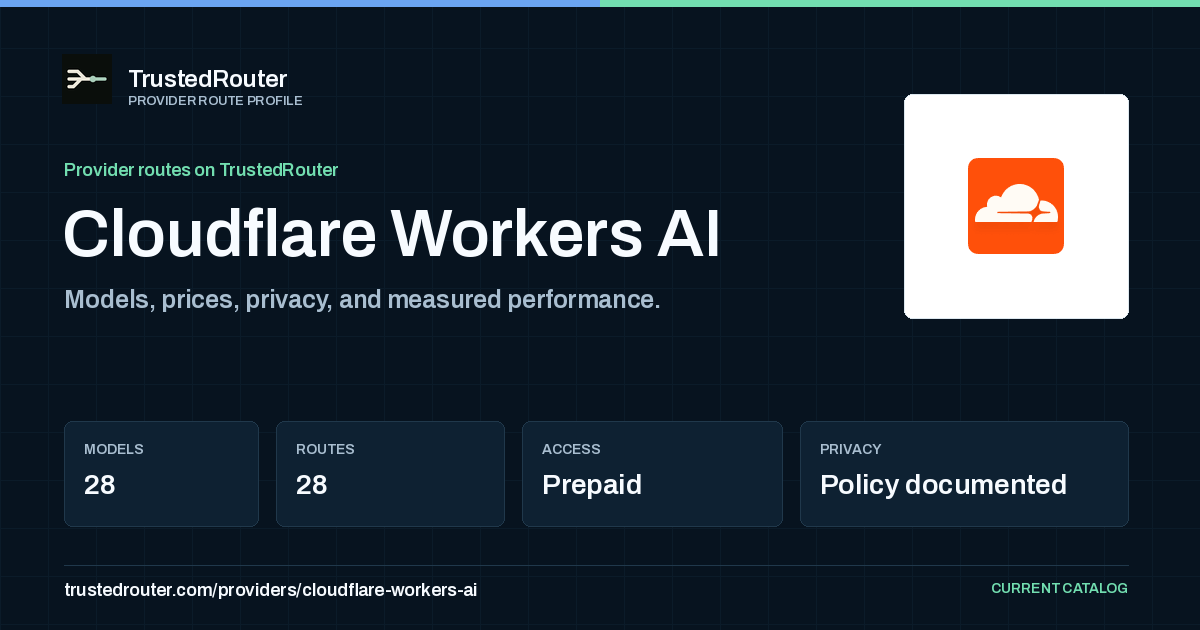
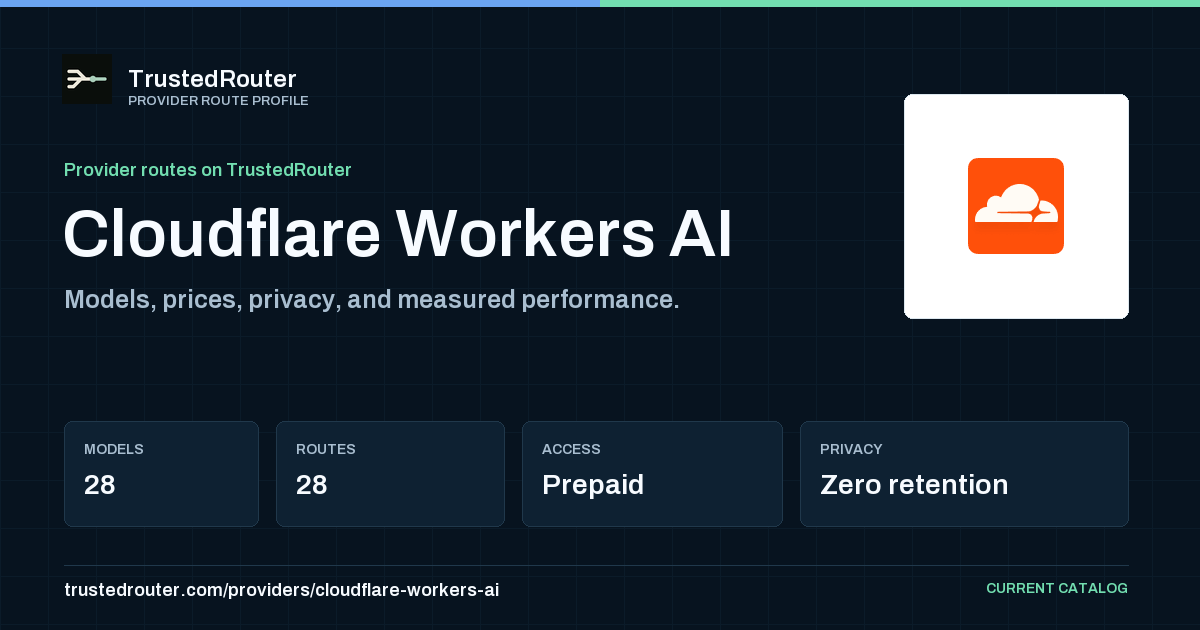
Mark Cloudflare Workers AI ZDR; derive Liberty 4.x retention from members
Joseph enabled the zero-data-retention setting on TrustedRouter's Cloudflare
Workers AI account. Mark the provider ZDR "via TrustedRouter's arrangement",
as Nebius is, citing Cloudflare's Workers AI data-usage page and the AI
Gateway no-log/skip-cache headers the gateway already sends.

Liberty 4.x's privacy tier was the best tier across its members, so Liberty
4.1 showed "Zero retention" while Inkling 2 Small's only US route was not
strict ZDR. Every Liberty 4.x request reaches every member, so derive the
tier from the weakest member's best US-headquartered route instead. With
Cloudflare now ZDR, Liberty 4.1 is truthfully Zero retention; one non-ZDR
member route would demote it.

Inkling 2 Small routes reviewed for Liberty 4.1: Cloudflare is the only one
that is ZDR, US-headquartered and 1M. Nebius is ZDR but headquartered in the
Netherlands (US-only rule), DeepInfra is not ZDR and is barred from every
combo, and Thinking Machines' 256K Tinker route is not cataloged.

Regenerated the Cloudflare (privacy) and Scaleway (route count) social cards.

diff --git a/tests/test_liberty_retention_from_members.py b/tests/test_liberty_retention_from_members.py
@@ -1,0 +1,127 @@
+"""Liberty 4.x's advertised retention comes from its members' routes.
+
+Every Liberty 4.x request reaches every panel member, so the combo is only as
+private as its weakest member's best eligible route. A hard-coded or best-member
+label could drift, as Liberty 4.1's did while Inkling 2 Small's only US route
+(Cloudflare Workers AI) was outside strict ZDR.
+"""
+
+from __future__ import annotations
+
+from dataclasses import replace
+
+import pytest
+
+from trusted_router.catalog import (
+    MODELS,
+    PROVIDERS,
+    endpoints_for_model,
+    meta_candidate_models,
+    model_max_privacy_tier,
+)
+from trusted_router.catalog_data import (
+    LIBERTY_4_0_MODEL_ID,
+    LIBERTY_4_1_MODEL_ID,
+    PRIVACY_TIER_STANDARD,
+    PRIVACY_TIER_ZERO_RETENTION,
+    PROVIDER_JURISDICTION_US,
+    US_PROVIDER_ONLY_MODEL_IDS,
+)
+from trusted_router.catalog_privacy import endpoint_privacy_tier, endpoint_zero_data_retention
+
+INKLING_2_SMALL = "thinkingmachines/inkling-2-small"
+LIBERTY_WINDOW = 1_048_576
+
+
+def _inkling_endpoints() -> dict[str, object]:
+    if INKLING_2_SMALL not in MODELS:
+        pytest.skip("Inkling 2 Small is not cataloged under this clock")
+    return {
+        endpoint.provider: endpoint
+        for endpoint in endpoints_for_model(INKLING_2_SMALL)
+        if endpoint.usage_type == "Credits"
+    }
+
+
+def test_cloudflare_workers_ai_is_zero_retention_via_trs_account_setting() -> None:
+    provider = PROVIDERS["cloudflare-workers-ai"]
+
+    assert provider.provider_zero_data_retention is True
+    assert provider.stores_content is False
+    assert provider.supports_byok is False  # every request uses TR's account
+    assert "TrustedRouter's arrangement" in provider.provider_policy
+    assert "zero-data-retention setting" in provider.provider_policy
+    assert "outside strict ZDR" not in provider.provider_policy
+    cloudflare = _inkling_endpoints().get("cloudflare-workers-ai")
+    if cloudflare is not None:
+        assert endpoint_zero_data_retention(cloudflare) is True
+
+
+def test_cloudflare_is_liberty_41s_only_eligible_zdr_inkling_route() -> None:
+    """Eligible: ZDR, US-headquartered, Liberty's full window, not DeepInfra
+    (barred from every combo). Nebius is ZDR but headquartered in the
+    Netherlands, so Liberty 4.x's US-only rule keeps it out."""
+    endpoints = _inkling_endpoints()
+    if "cloudflare-workers-ai" not in endpoints:
+        pytest.skip("Cloudflare's Inkling 2 Small route is not cataloged under this clock")
+    eligible = {
+        slug
+        for slug, endpoint in endpoints.items()
+        if endpoint_zero_data_retention(endpoint) is True
+        and PROVIDERS[slug].provider_headquarters_country == PROVIDER_JURISDICTION_US
+        and (endpoint.context_length or 0) >= LIBERTY_WINDOW
+        and slug != "deepinfra"
+    }
+
+    assert eligible == {"cloudflare-workers-ai"}
+    if "nebius" in endpoints:
+        assert endpoint_zero_data_retention(endpoints["nebius"]) is True
+        assert PROVIDERS["nebius"].provider_headquarters_country != PROVIDER_JURISDICTION_US
+
+
+@pytest.mark.parametrize("model_id", [LIBERTY_4_0_MODEL_ID, LIBERTY_4_1_MODEL_ID])
+def test_liberty_tier_is_its_weakest_members_best_us_route(model_id: str) -> None:
+    assert model_id in US_PROVIDER_ONLY_MODEL_IDS
+    members = meta_candidate_models(model_id)
+    assert members
+    weakest = min(
+        max(
+            (
+                endpoint_privacy_tier(endpoint)
+                for endpoint in endpoints_for_model(member.id)
+                if PROVIDERS[endpoint.provider].provider_headquarters_country
+                == PROVIDER_JURISDICTION_US
+            ),
+            default=PRIVACY_TIER_STANDARD,
+        )
+        for member in members
+    )
+
+    assert model_max_privacy_tier(MODELS[model_id]) == weakest
+
+
+def test_liberty_41_advertises_zero_retention() -> None:
+    if "cloudflare-workers-ai" not in _inkling_endpoints():
+        pytest.skip("Cloudflare's Inkling 2 Small route is not cataloged under this clock")
+    assert model_max_privacy_tier(MODELS[LIBERTY_4_1_MODEL_ID]) >= PRIVACY_TIER_ZERO_RETENTION
+
+
+def test_one_non_zdr_member_route_demotes_liberty_41_not_40(
+    monkeypatch: pytest.MonkeyPatch,
+) -> None:
+    """Nebius's ZDR route cannot rescue Inkling: Liberty 4.x is US-only."""
+    if "cloudflare-workers-ai" not in _inkling_endpoints():
+        pytest.skip("Cloudflare's Inkling 2 Small route is not cataloged under this clock")
+    liberty_40_before = model_max_privacy_tier(MODELS[LIBERTY_4_0_MODEL_ID])
+    monkeypatch.setitem(
+        PROVIDERS,
+        "cloudflare-workers-ai",
+        replace(
+            PROVIDERS["cloudflare-workers-ai"],
+            stores_content=True,
+            provider_zero_data_retention=False,
+        ),
+    )
+
+    assert model_max_privacy_tier(MODELS[LIBERTY_4_1_MODEL_ID]) < PRIVACY_TIER_ZERO_RETENTION
+    assert model_max_privacy_tier(MODELS[LIBERTY_4_0_MODEL_ID]) == liberty_40_before

diff --git a/src/trusted_router/catalog.py b/src/trusted_router/catalog.py
@@ -523,6 +523,8 @@ def _model_max_privacy_tier(model: Model, endpoints: list[ModelEndpoint]) -> int
             if endpoint.provider in renewable_provider_slugs()
         ]
         return max(tiers, default=PRIVACY_TIER_STANDARD)
+    if model.id in WEAKEST_MEMBER_PRIVACY_MODEL_IDS:
+        return _weakest_member_privacy_tier(model.id)
     if model.id in META_MODEL_IDS:
         for candidate in meta_candidate_models(model.id):
             tiers.append(model_max_privacy_tier(candidate))
@@ -532,6 +534,32 @@ def _model_max_privacy_tier(model: Model, endpoints: list[ModelEndpoint]) -> int
         if not tiers and model.provider in PROVIDERS:
             tiers.append(model_provider_privacy_tier(model.id, model.provider))
     return max(tiers) if tiers else PRIVACY_TIER_STANDARD
+
+
+# Combos that send every request to every member: the panel answers in
+# parallel and a member fuses, so the prompt reaches all of them. Their
+# posture is the weakest member's, never the best. Each member counts only the
+# routes the combo may use (US-headquartered for US-only ids). A member with
+# no such route fails closed to Standard.
+WEAKEST_MEMBER_PRIVACY_MODEL_IDS = frozenset({LIBERTY_4_0_MODEL_ID, LIBERTY_4_1_MODEL_ID})
+
+
+def _weakest_member_privacy_tier(model_id: str) -> int:
+    us_only = model_id in US_PROVIDER_ONLY_MODEL_IDS
+    member_tiers = [
+        max(
+            (
+                endpoint_privacy_tier(endpoint)
+                for endpoint in endpoints_for_model(member.id)
+                if not us_only
+                or PROVIDERS[endpoint.provider].provider_headquarters_country
+                == PROVIDER_JURISDICTION_US
+            ),
+            default=PRIVACY_TIER_STANDARD,
+        )
+        for member in meta_candidate_models(model_id)
+    ]
+    return min(member_tiers, default=PRIVACY_TIER_STANDARD)
 
 
 def model_max_privacy_tier(model: Model) -> int:

diff --git a/src/trusted_router/catalog_data.py b/src/trusted_router/catalog_data.py
@@ -1177,12 +1177,19 @@ PROVIDERS: dict[str, Provider] = {
         name="Cloudflare Workers AI",
         supports_prepaid=True,
         supports_byok=False,
+        stores_content=False,
+        provider_zero_data_retention=True,
         provider_policy=(
-            "Workers AI documents no input/output retention after ordinary "
-            "stateless inference and no model training. Stateful features, "
-            "customer-enabled logging/caching, and safety, security or legal "
-            "exceptions may retain content. No exception-free commitment is "
-            "verified for this account; these routes remain outside strict ZDR."
+            "Marked ZDR via TrustedRouter's arrangement: TrustedRouter has "
+            "enabled the zero-data-retention setting on the Cloudflare account "
+            "these routes use. Cloudflare documents that Workers AI retains no "
+            "inputs or outputs after ordinary stateless inference and does not "
+            "train on customer content; TrustedRouter uses no stateful features "
+            "and sends AI Gateway's no-log, no-payload-log and skip-cache "
+            "headers on every request. Only Workers AI-hosted models route here; "
+            "third-party passthrough stays disabled. Cloudflare's documented "
+            "legal, safety and security exceptions still apply. Prepaid only "
+            "(no BYOK), so every request uses TrustedRouter's account."
         ),
         provider_policy_url="https://developers.cloudflare.com/workers-ai/platform/data-usage/",
         provider_headquarters_country=PROVIDER_JURISDICTION_US,

diff --git a/tests/test_provider_metadata_audit.py b/tests/test_provider_metadata_audit.py
@@ -45,7 +45,7 @@ def test_1017_precision_is_exact_route_evidence_not_inferred(provider, upstream,
     assert endpoint_precision_metadata(replace(endpoint, upstream_id=upstream + "-other")) is None
 
 
-@pytest.mark.parametrize("provider", ["sail-research", "featherless"])
+@pytest.mark.parametrize("provider", ["sail-research", "featherless", "cloudflare-workers-ai"])
 def test_newly_verified_policies_qualify_for_zdr_only(provider):
     endpoint = route(provider, "deepseek-ai/DeepSeek-V4.1-Flash-1017")
     assert endpoint_meets_privacy_requirement(endpoint, PRIVACY_TIER_ZERO_RETENTION)
@@ -54,7 +54,7 @@ def test_newly_verified_policies_qualify_for_zdr_only(provider):
     assert PROVIDERS[provider].provider_e2ee is not True
 
 
-@pytest.mark.parametrize("provider", ["engy", "makora", "cloudflare-workers-ai", "boundless"])
+@pytest.mark.parametrize("provider", ["engy", "makora", "boundless"])
 def test_conditional_or_downstream_unverified_policies_stay_out_of_strict_zdr(provider):
     assert not endpoint_meets_privacy_requirement(route(provider, MODEL_ID), PRIVACY_TIER_ZERO_RETENTION)
 
